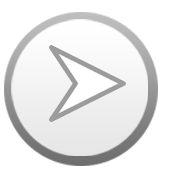
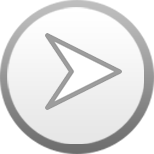
index presque fini

diff --git a/style.css b/style.css
@@ -4,7 +4,7 @@ html{
 
 body{
     margin: 0px;
-    background-image: url(images/background.jpg);
+    background-image: url(images/Bakcground-test.jpg);
     background-size: cover;
 }
 
@@ -67,12 +67,15 @@ div.vignette{
 
 .float_right{
     float: right;
+    padding-right: 1em;
 }
 
 .float_left{
     float: left;
+    padding-left: 1em;
 }
 
 .float_left img, .float_right img{
-    width: 130px;
+    width: 80px;
+    margin-top: 60px;
 }

diff --git a/index.js b/index.js
@@ -71,8 +71,12 @@ function handleReaderLoad(evt) {
     });
 }
 
-$("#chat").click(function () {
+$("#fleche_droite").click(function () {
     $('.owl-carousel').trigger('next.owl.carousel');
+});
+
+$("#fleche_gauche").click(function () {
+    $('.owl-carousel').trigger('prev.owl.carousel');
 });
 
 $('.owl-carousel').owlCarousel({

diff --git a/index.php b/index.php
@@ -19,7 +19,7 @@
     <section id="main">
         <article id="playlist">
                 <div class="float_left">
-                    <img id="fleche_gauche" src="images/fleche_droite.png"/>
+                    <img id="fleche_gauche" src="images/fleche_gauche.png"/>
                 </div>
             <div class="float_right">
                 <img id="fleche_droite" src="images/fleche_droite.png"/>
@@ -29,6 +29,11 @@
                     <div class="item">
                         <div class="vignette">
                             <img src="IMG_DATA" alt="IMG_TITRE 1"/>
+                        </div>
+                    </div>
+                    <div class="item">
+                        <div class="vignette">
+                            <img src="IMG_DATA" alt="IMG_TITRE 2"/>
                         </div>
                     </div>
                 </div>
